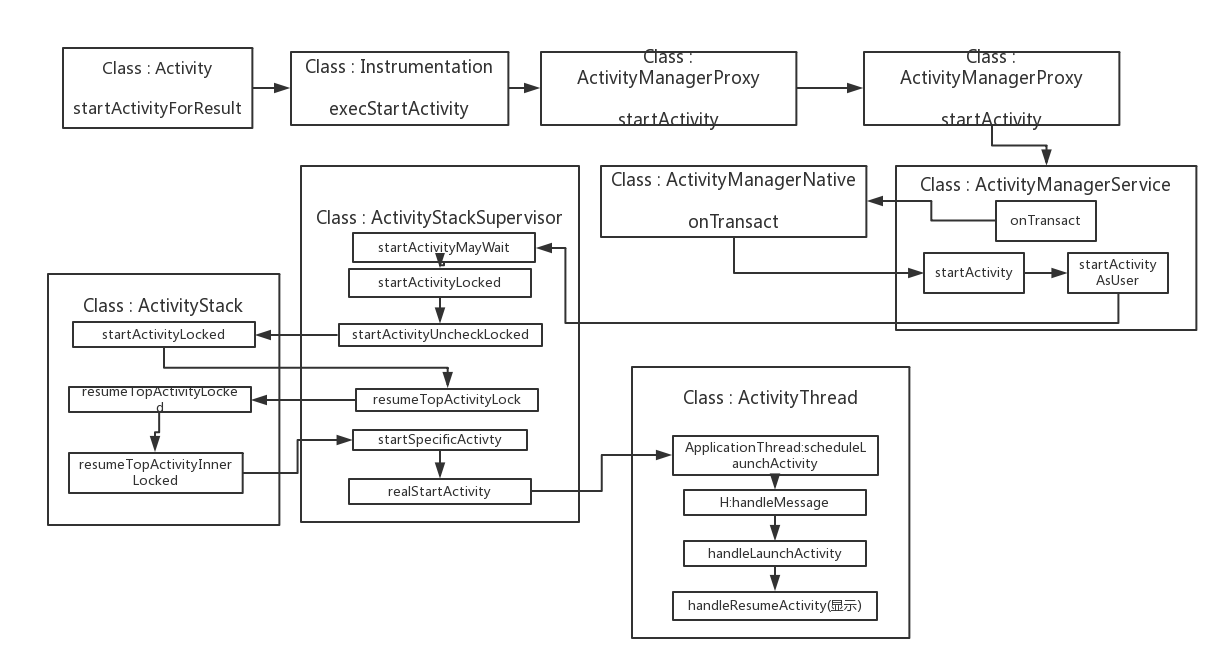
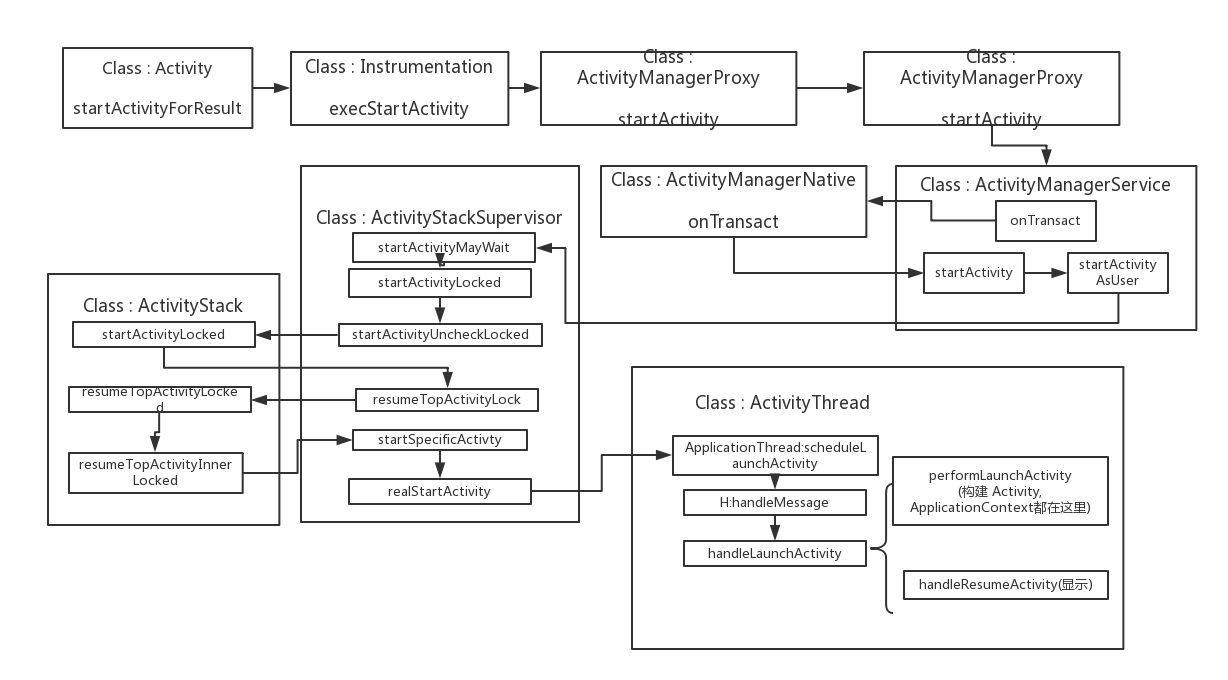
Site updated: 2018-07-30 12:07:14

diff --git a/2018/07/26/ActivityStartFlow/index.html b/2018/07/26/ActivityStartFlow/index.html
@@ -86,7 +86,7 @@
 <meta property="og:site_name" content="Hexiaosa">
 <meta property="og:description" content="记 Activity 启动流程的流水账。。下面的流程图比较有意义一些   开始 startActivity  最终都会调用 Activity 的 startActivityForResult 方法 1234567startActivityForResult(Intent intent, int requestCode, @Nullable Bundle options) &amp;#123;    //.">
 <meta property="og:image" content="http://hexiaosa.com/image/Activity_Start.png">
-<meta property="og:updated_time" content="2018-07-30T03:51:53.487Z">
+<meta property="og:updated_time" content="2018-07-30T04:06:46.232Z">
 <meta name="twitter:card" content="summary">
 <meta name="twitter:title" content="Activity 启动流程">
 <meta name="twitter:description" content="记 Activity 启动流程的流水账。。下面的流程图比较有意义一些   开始 startActivity  最终都会调用 Activity 的 startActivityForResult 方法 1234567startActivityForResult(Intent intent, int requestCode, @Nullable Bundle options) &amp;#123;    //.">
@@ -342,7 +342,7 @@
 <figure class="highlight plain"><table><tr><td class="gutter"><pre><div class="line">1</div><div class="line">2</div><div class="line">3</div><div class="line">4</div><div class="line">5</div><div class="line">6</div><div class="line">7</div><div class="line">8</div><div class="line">9</div><div class="line">10</div><div class="line">11</div><div class="line">12</div><div class="line">13</div><div class="line">14</div><div class="line">15</div><div class="line">16</div></pre></td><td class="code"><pre><div class="line">private class H extends Handler &#123;</div><div class="line"></div><div class="line">    public void handleMessage(Message msg) &#123;</div><div class="line">        switch (msg.what) &#123;</div><div class="line">            case LAUNCH_ACTIVITY: &#123;</div><div class="line">                Trace.traceBegin(Trace.TRACE_TAG_ACTIVITY_MANAGER, &quot;activityStart&quot;);</div><div class="line">                final ActivityClientRecord r = (ActivityClientRecord) msg.obj;</div><div class="line"></div><div class="line">                r.packageInfo = getPackageInfoNoCheck(</div><div class="line">                        r.activityInfo.applicationInfo, r.compatInfo);</div><div class="line">                handleLaunchActivity(r, null);</div><div class="line">                Trace.traceEnd(Trace.TRACE_TAG_ACTIVITY_MANAGER);</div><div class="line">            &#125; break;</div><div class="line">            // ...</div><div class="line">    &#125;</div><div class="line">&#125;</div></pre></td></tr></table></figure>
 </li>
 <li><p>最终实现是 ActivityThread.handleLaunchActivity</p>
-<figure class="highlight plain"><table><tr><td class="gutter"><pre><div class="line">1</div><div class="line">2</div><div class="line">3</div><div class="line">4</div><div class="line">5</div><div class="line">6</div><div class="line">7</div><div class="line">8</div><div class="line">9</div><div class="line">10</div><div class="line">11</div><div class="line">12</div><div class="line">13</div><div class="line">14</div><div class="line">15</div><div class="line">16</div><div class="line">17</div><div class="line">18</div><div class="line">19</div><div class="line">20</div><div class="line">21</div><div class="line">22</div><div class="line">23</div><div class="line">24</div><div class="line">25</div><div class="line">26</div><div class="line">27</div><div class="line">28</div><div class="line">29</div><div class="line">30</div><div class="line">31</div></pre></td><td class="code"><pre><div class="line">private void handleLaunchActivity(ActivityClientRecord r, Intent customIntent) &#123;</div><div class="line">    // ...</div><div class="line"></div><div class="line">    Activity a = performLaunchActivity(r, customIntent);</div><div class="line"></div><div class="line">    if (a != null) &#123;</div><div class="line">        r.createdConfig = new Configuration(mConfiguration);</div><div class="line">        Bundle oldState = r.state;</div><div class="line">        // 调这个方法去显示 Activity</div><div class="line">        handleResumeActivity(r.token, false, r.isForward,</div><div class="line">                !r.activity.mFinished &amp;&amp; !r.startsNotResumed);</div><div class="line"></div><div class="line">        if (!r.activity.mFinished &amp;&amp; r.startsNotResumed) &#123;</div><div class="line">            try &#123;</div><div class="line">                r.activity.mCalled = false;</div><div class="line">                mInstrumentation.callActivityOnPause(r.activity);</div><div class="line">                if (r.isPreHoneycomb()) &#123;</div><div class="line">                    r.state = oldState;</div><div class="line">                &#125;</div><div class="line">            &#125; </div><div class="line">            // ...</div><div class="line">            r.paused = true;</div><div class="line">        &#125;</div><div class="line">    &#125; else &#123;</div><div class="line">        try &#123;</div><div class="line">            ActivityManagerNative.getDefault()</div><div class="line">                .finishActivity(r.token, Activity.RESULT_CANCELED, null, false);</div><div class="line">        &#125; </div><div class="line">        // ...</div><div class="line">    &#125;</div><div class="line">&#125;</div></pre></td></tr></table></figure></li>
+<figure class="highlight plain"><table><tr><td class="gutter"><pre><div class="line">1</div><div class="line">2</div><div class="line">3</div><div class="line">4</div><div class="line">5</div><div class="line">6</div><div class="line">7</div><div class="line">8</div><div class="line">9</div><div class="line">10</div><div class="line">11</div><div class="line">12</div><div class="line">13</div><div class="line">14</div><div class="line">15</div><div class="line">16</div><div class="line">17</div><div class="line">18</div><div class="line">19</div><div class="line">20</div><div class="line">21</div><div class="line">22</div><div class="line">23</div><div class="line">24</div><div class="line">25</div><div class="line">26</div><div class="line">27</div><div class="line">28</div><div class="line">29</div><div class="line">30</div><div class="line">31</div><div class="line">32</div><div class="line">33</div><div class="line">34</div><div class="line">35</div><div class="line">36</div><div class="line">37</div><div class="line">38</div><div class="line">39</div><div class="line">40</div><div class="line">41</div><div class="line">42</div><div class="line">43</div><div class="line">44</div><div class="line">45</div><div class="line">46</div><div class="line">47</div><div class="line">48</div><div class="line">49</div><div class="line">50</div><div class="line">51</div><div class="line">52</div><div class="line">53</div><div class="line">54</div><div class="line">55</div><div class="line">56</div><div class="line">57</div><div class="line">58</div><div class="line">59</div><div class="line">60</div><div class="line">61</div><div class="line">62</div><div class="line">63</div><div class="line">64</div><div class="line">65</div><div class="line">66</div><div class="line">67</div><div class="line">68</div><div class="line">69</div></pre></td><td class="code"><pre><div class="line">private void handleLaunchActivity(ActivityClientRecord r, Intent customIntent) &#123;</div><div class="line">    // ...</div><div class="line"></div><div class="line">    // 构建 Activity</div><div class="line">    Activity a = performLaunchActivity(r, customIntent);</div><div class="line"></div><div class="line">    if (a != null) &#123;</div><div class="line">        r.createdConfig = new Configuration(mConfiguration);</div><div class="line">        Bundle oldState = r.state;</div><div class="line">        // 调这个方法去显示 Activity</div><div class="line">        handleResumeActivity(r.token, false, r.isForward,</div><div class="line">                !r.activity.mFinished &amp;&amp; !r.startsNotResumed);</div><div class="line"></div><div class="line">        if (!r.activity.mFinished &amp;&amp; r.startsNotResumed) &#123;</div><div class="line">            try &#123;</div><div class="line">                r.activity.mCalled = false;</div><div class="line">                mInstrumentation.callActivityOnPause(r.activity);</div><div class="line">                if (r.isPreHoneycomb()) &#123;</div><div class="line">                    r.state = oldState;</div><div class="line">                &#125;</div><div class="line">            &#125; </div><div class="line">            // ...</div><div class="line">            r.paused = true;</div><div class="line">        &#125;</div><div class="line">    &#125; else &#123;</div><div class="line">        try &#123;</div><div class="line">            ActivityManagerNative.getDefault()</div><div class="line">                .finishActivity(r.token, Activity.RESULT_CANCELED, null, false);</div><div class="line">        &#125; </div><div class="line">        // ...</div><div class="line">    &#125;</div><div class="line">&#125;</div><div class="line"></div><div class="line">// 上面方法有调到，构建 Activity 和 ApplicationContext</div><div class="line">private Activity performLaunchActivity(ActivityClientRecord r, Intent customIntent) &#123;</div><div class="line">    // ... </div><div class="line">    // 构建 Activity</div><div class="line">    Activity activity = null;</div><div class="line">    try &#123;</div><div class="line">        java.lang.ClassLoader cl = r.packageInfo.getClassLoader();</div><div class="line">        activity = mInstrumentation.newActivity(</div><div class="line">                cl, component.getClassName(), r.intent);</div><div class="line">        // ...</div><div class="line">    &#125;</div><div class="line">    // ... </div><div class="line"></div><div class="line">    // 构建 Appilication</div><div class="line">    try &#123;</div><div class="line">        // ContextImpl 对象就是在这里创建的</div><div class="line">        Application app = r.packageInfo.makeApplication(false, mInstrumentation);</div><div class="line">        </div><div class="line">        if (activity != null) &#123;</div><div class="line">            Context appContext = createBaseContextForActivity(r, activity);</div><div class="line">            CharSequence title = r.activityInfo.loadLabel(appContext.getPackageManager());</div><div class="line">            Configuration config = new Configuration(mCompatConfiguration);</div><div class="line">            if (DEBUG_CONFIGURATION) Slog.v(TAG, &quot;Launching activity &quot;</div><div class="line">                    + r.activityInfo.name + &quot; with config &quot; + config);</div><div class="line">            activity.attach(appContext, this, getInstrumentation(), r.token,</div><div class="line">                    r.ident, app, r.intent, r.activityInfo, title, r.parent,</div><div class="line">                    r.embeddedID, r.lastNonConfigurationInstances, config,</div><div class="line">                    r.voiceInteractor);</div><div class="line">            // ...</div><div class="line">        &#125;</div><div class="line">        r.paused = true;</div><div class="line">        mActivities.put(r.token, r);</div><div class="line">    &#125;</div><div class="line">    // ...</div><div class="line">    return activity;</div><div class="line">&#125;</div></pre></td></tr></table></figure></li>
 </ol>
 
       

diff --git a/index.html b/index.html
@@ -341,7 +341,7 @@
 <figure class="highlight plain"><table><tr><td class="gutter"><pre><div class="line">1</div><div class="line">2</div><div class="line">3</div><div class="line">4</div><div class="line">5</div><div class="line">6</div><div class="line">7</div><div class="line">8</div><div class="line">9</div><div class="line">10</div><div class="line">11</div><div class="line">12</div><div class="line">13</div><div class="line">14</div><div class="line">15</div><div class="line">16</div></pre></td><td class="code"><pre><div class="line">private class H extends Handler &#123;</div><div class="line"></div><div class="line">    public void handleMessage(Message msg) &#123;</div><div class="line">        switch (msg.what) &#123;</div><div class="line">            case LAUNCH_ACTIVITY: &#123;</div><div class="line">                Trace.traceBegin(Trace.TRACE_TAG_ACTIVITY_MANAGER, &quot;activityStart&quot;);</div><div class="line">                final ActivityClientRecord r = (ActivityClientRecord) msg.obj;</div><div class="line"></div><div class="line">                r.packageInfo = getPackageInfoNoCheck(</div><div class="line">                        r.activityInfo.applicationInfo, r.compatInfo);</div><div class="line">                handleLaunchActivity(r, null);</div><div class="line">                Trace.traceEnd(Trace.TRACE_TAG_ACTIVITY_MANAGER);</div><div class="line">            &#125; break;</div><div class="line">            // ...</div><div class="line">    &#125;</div><div class="line">&#125;</div></pre></td></tr></table></figure>
 </li>
 <li><p>最终实现是 ActivityThread.handleLaunchActivity</p>
-<figure class="highlight plain"><table><tr><td class="gutter"><pre><div class="line">1</div><div class="line">2</div><div class="line">3</div><div class="line">4</div><div class="line">5</div><div class="line">6</div><div class="line">7</div><div class="line">8</div><div class="line">9</div><div class="line">10</div><div class="line">11</div><div class="line">12</div><div class="line">13</div><div class="line">14</div><div class="line">15</div><div class="line">16</div><div class="line">17</div><div class="line">18</div><div class="line">19</div><div class="line">20</div><div class="line">21</div><div class="line">22</div><div class="line">23</div><div class="line">24</div><div class="line">25</div><div class="line">26</div><div class="line">27</div><div class="line">28</div><div class="line">29</div><div class="line">30</div><div class="line">31</div></pre></td><td class="code"><pre><div class="line">private void handleLaunchActivity(ActivityClientRecord r, Intent customIntent) &#123;</div><div class="line">    // ...</div><div class="line"></div><div class="line">    Activity a = performLaunchActivity(r, customIntent);</div><div class="line"></div><div class="line">    if (a != null) &#123;</div><div class="line">        r.createdConfig = new Configuration(mConfiguration);</div><div class="line">        Bundle oldState = r.state;</div><div class="line">        // 调这个方法去显示 Activity</div><div class="line">        handleResumeActivity(r.token, false, r.isForward,</div><div class="line">                !r.activity.mFinished &amp;&amp; !r.startsNotResumed);</div><div class="line"></div><div class="line">        if (!r.activity.mFinished &amp;&amp; r.startsNotResumed) &#123;</div><div class="line">            try &#123;</div><div class="line">                r.activity.mCalled = false;</div><div class="line">                mInstrumentation.callActivityOnPause(r.activity);</div><div class="line">                if (r.isPreHoneycomb()) &#123;</div><div class="line">                    r.state = oldState;</div><div class="line">                &#125;</div><div class="line">            &#125; </div><div class="line">            // ...</div><div class="line">            r.paused = true;</div><div class="line">        &#125;</div><div class="line">    &#125; else &#123;</div><div class="line">        try &#123;</div><div class="line">            ActivityManagerNative.getDefault()</div><div class="line">                .finishActivity(r.token, Activity.RESULT_CANCELED, null, false);</div><div class="line">        &#125; </div><div class="line">        // ...</div><div class="line">    &#125;</div><div class="line">&#125;</div></pre></td></tr></table></figure></li>
+<figure class="highlight plain"><table><tr><td class="gutter"><pre><div class="line">1</div><div class="line">2</div><div class="line">3</div><div class="line">4</div><div class="line">5</div><div class="line">6</div><div class="line">7</div><div class="line">8</div><div class="line">9</div><div class="line">10</div><div class="line">11</div><div class="line">12</div><div class="line">13</div><div class="line">14</div><div class="line">15</div><div class="line">16</div><div class="line">17</div><div class="line">18</div><div class="line">19</div><div class="line">20</div><div class="line">21</div><div class="line">22</div><div class="line">23</div><div class="line">24</div><div class="line">25</div><div class="line">26</div><div class="line">27</div><div class="line">28</div><div class="line">29</div><div class="line">30</div><div class="line">31</div><div class="line">32</div><div class="line">33</div><div class="line">34</div><div class="line">35</div><div class="line">36</div><div class="line">37</div><div class="line">38</div><div class="line">39</div><div class="line">40</div><div class="line">41</div><div class="line">42</div><div class="line">43</div><div class="line">44</div><div class="line">45</div><div class="line">46</div><div class="line">47</div><div class="line">48</div><div class="line">49</div><div class="line">50</div><div class="line">51</div><div class="line">52</div><div class="line">53</div><div class="line">54</div><div class="line">55</div><div class="line">56</div><div class="line">57</div><div class="line">58</div><div class="line">59</div><div class="line">60</div><div class="line">61</div><div class="line">62</div><div class="line">63</div><div class="line">64</div><div class="line">65</div><div class="line">66</div><div class="line">67</div><div class="line">68</div><div class="line">69</div></pre></td><td class="code"><pre><div class="line">private void handleLaunchActivity(ActivityClientRecord r, Intent customIntent) &#123;</div><div class="line">    // ...</div><div class="line"></div><div class="line">    // 构建 Activity</div><div class="line">    Activity a = performLaunchActivity(r, customIntent);</div><div class="line"></div><div class="line">    if (a != null) &#123;</div><div class="line">        r.createdConfig = new Configuration(mConfiguration);</div><div class="line">        Bundle oldState = r.state;</div><div class="line">        // 调这个方法去显示 Activity</div><div class="line">        handleResumeActivity(r.token, false, r.isForward,</div><div class="line">                !r.activity.mFinished &amp;&amp; !r.startsNotResumed);</div><div class="line"></div><div class="line">        if (!r.activity.mFinished &amp;&amp; r.startsNotResumed) &#123;</div><div class="line">            try &#123;</div><div class="line">                r.activity.mCalled = false;</div><div class="line">                mInstrumentation.callActivityOnPause(r.activity);</div><div class="line">                if (r.isPreHoneycomb()) &#123;</div><div class="line">                    r.state = oldState;</div><div class="line">                &#125;</div><div class="line">            &#125; </div><div class="line">            // ...</div><div class="line">            r.paused = true;</div><div class="line">        &#125;</div><div class="line">    &#125; else &#123;</div><div class="line">        try &#123;</div><div class="line">            ActivityManagerNative.getDefault()</div><div class="line">                .finishActivity(r.token, Activity.RESULT_CANCELED, null, false);</div><div class="line">        &#125; </div><div class="line">        // ...</div><div class="line">    &#125;</div><div class="line">&#125;</div><div class="line"></div><div class="line">// 上面方法有调到，构建 Activity 和 ApplicationContext</div><div class="line">private Activity performLaunchActivity(ActivityClientRecord r, Intent customIntent) &#123;</div><div class="line">    // ... </div><div class="line">    // 构建 Activity</div><div class="line">    Activity activity = null;</div><div class="line">    try &#123;</div><div class="line">        java.lang.ClassLoader cl = r.packageInfo.getClassLoader();</div><div class="line">        activity = mInstrumentation.newActivity(</div><div class="line">                cl, component.getClassName(), r.intent);</div><div class="line">        // ...</div><div class="line">    &#125;</div><div class="line">    // ... </div><div class="line"></div><div class="line">    // 构建 Appilication</div><div class="line">    try &#123;</div><div class="line">        // ContextImpl 对象就是在这里创建的</div><div class="line">        Application app = r.packageInfo.makeApplication(false, mInstrumentation);</div><div class="line">        </div><div class="line">        if (activity != null) &#123;</div><div class="line">            Context appContext = createBaseContextForActivity(r, activity);</div><div class="line">            CharSequence title = r.activityInfo.loadLabel(appContext.getPackageManager());</div><div class="line">            Configuration config = new Configuration(mCompatConfiguration);</div><div class="line">            if (DEBUG_CONFIGURATION) Slog.v(TAG, &quot;Launching activity &quot;</div><div class="line">                    + r.activityInfo.name + &quot; with config &quot; + config);</div><div class="line">            activity.attach(appContext, this, getInstrumentation(), r.token,</div><div class="line">                    r.ident, app, r.intent, r.activityInfo, title, r.parent,</div><div class="line">                    r.embeddedID, r.lastNonConfigurationInstances, config,</div><div class="line">                    r.voiceInteractor);</div><div class="line">            // ...</div><div class="line">        &#125;</div><div class="line">        r.paused = true;</div><div class="line">        mActivities.put(r.token, r);</div><div class="line">    &#125;</div><div class="line">    // ...</div><div class="line">    return activity;</div><div class="line">&#125;</div></pre></td></tr></table></figure></li>
 </ol>
 
           

diff --git a/css/main.css b/css/main.css
@@ -1822,7 +1822,7 @@ pre .javascript .function {
   width: 4px;
   height: 4px;
   border-radius: 50%;
-  background: #dfff96;
+  background: #6ebaff;
 }
 .links-of-blogroll {
   font-size: 13px;
